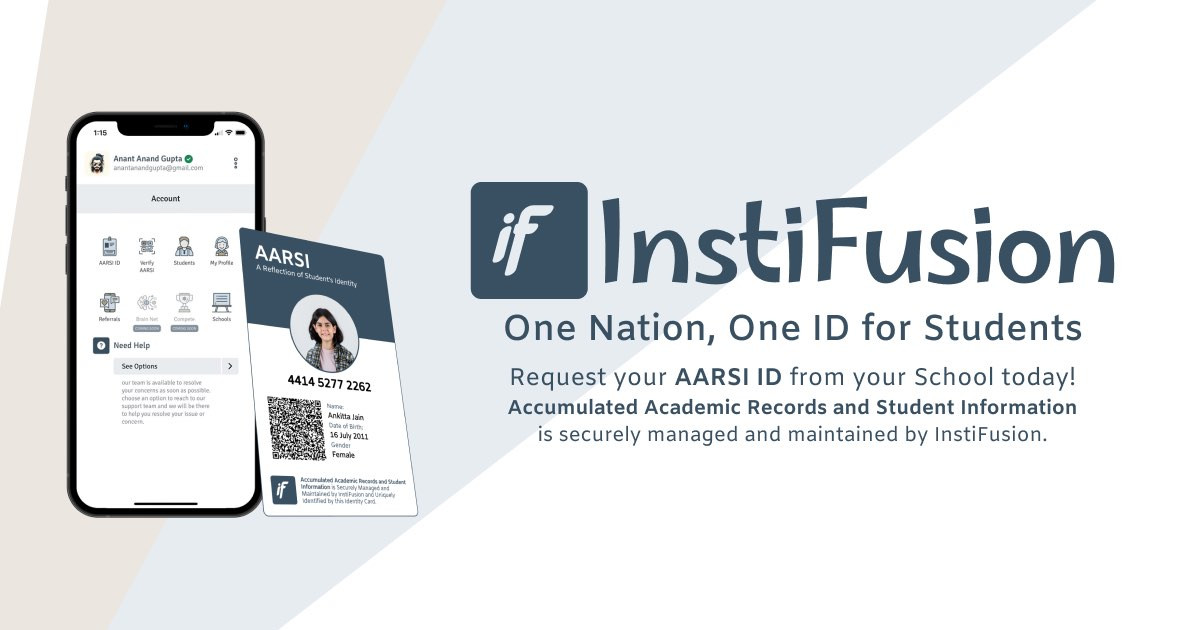
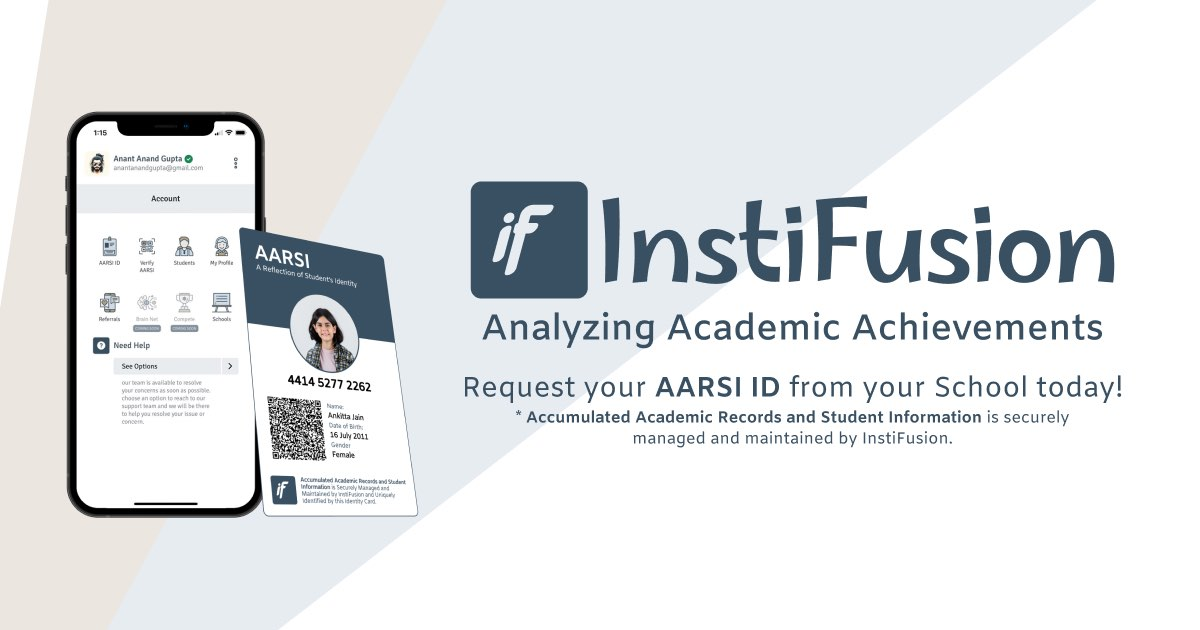
updated contact information and subtitle

diff --git a/index.html b/index.html
@@ -4,7 +4,7 @@
 <head>
   <meta charset="UTF-8">
   <meta name="viewport" content="width=device-width, initial-scale=1.0, shrink-to-fit=no, maximum-scale=1.0, user-scalable=no">
-  <title>One Nation, One ID for Students | InstiFusion</title>
+  <title>Analyzing Academic Achievements | InstiFusion</title>
   <link rel="shortcut icon" type="image/x-icon" href="favicon.ico">
   <link rel="manifest" href="manifest.webmanifest">
   <link rel="apple-touch-icon" sizes="180x180" href="assets/icons/apple-touch-icon.png">
@@ -19,7 +19,7 @@
   <meta name="msapplication-TileImage" content="assets/icons/mstile-144x144.png">
   <meta name="msapplication-config" content="browserconfig.xml">
   <meta name="theme-color" content="#395062">
-  <meta property="og:title" content="One Nation, One ID for Students | InstiFusion">
+  <meta property="og:title" content="Analyzing Academic Achievements | InstiFusion">
   <meta property="og:site_name" content="InstiFusion">
   <meta property="og:url" content="https://test.instifusion.com">
   <meta property="og:description" content="The Issuer of AARSI ID (Accumulated Academic Records and Student Information Identifier).">
@@ -204,11 +204,7 @@
         <div>
           <div>
             <h3>Address</h3>
-            <address>WeWork, 78/9 Outer Ring Road, Bellandur, Bengaluru - 560103, Karnataka, India</address>
-          </div>
-          <div>
-            <h3>Phone</h3>
-            <em>+91 7892141248</em>
+            <address>103, Block 19, Cluster B, <br>Suncity Apartments, Ibblur Junction, Outer Ring Road, <br>Bengaluru - 560102,<br>Karnataka, India</address>
           </div>
           <div>
             <h3>Email</h3>
@@ -229,7 +225,6 @@
       </ul>
     </div>
   </footer>
-  <!-- <script src="main.js"></script> -->
 </body>
 
 </html>
